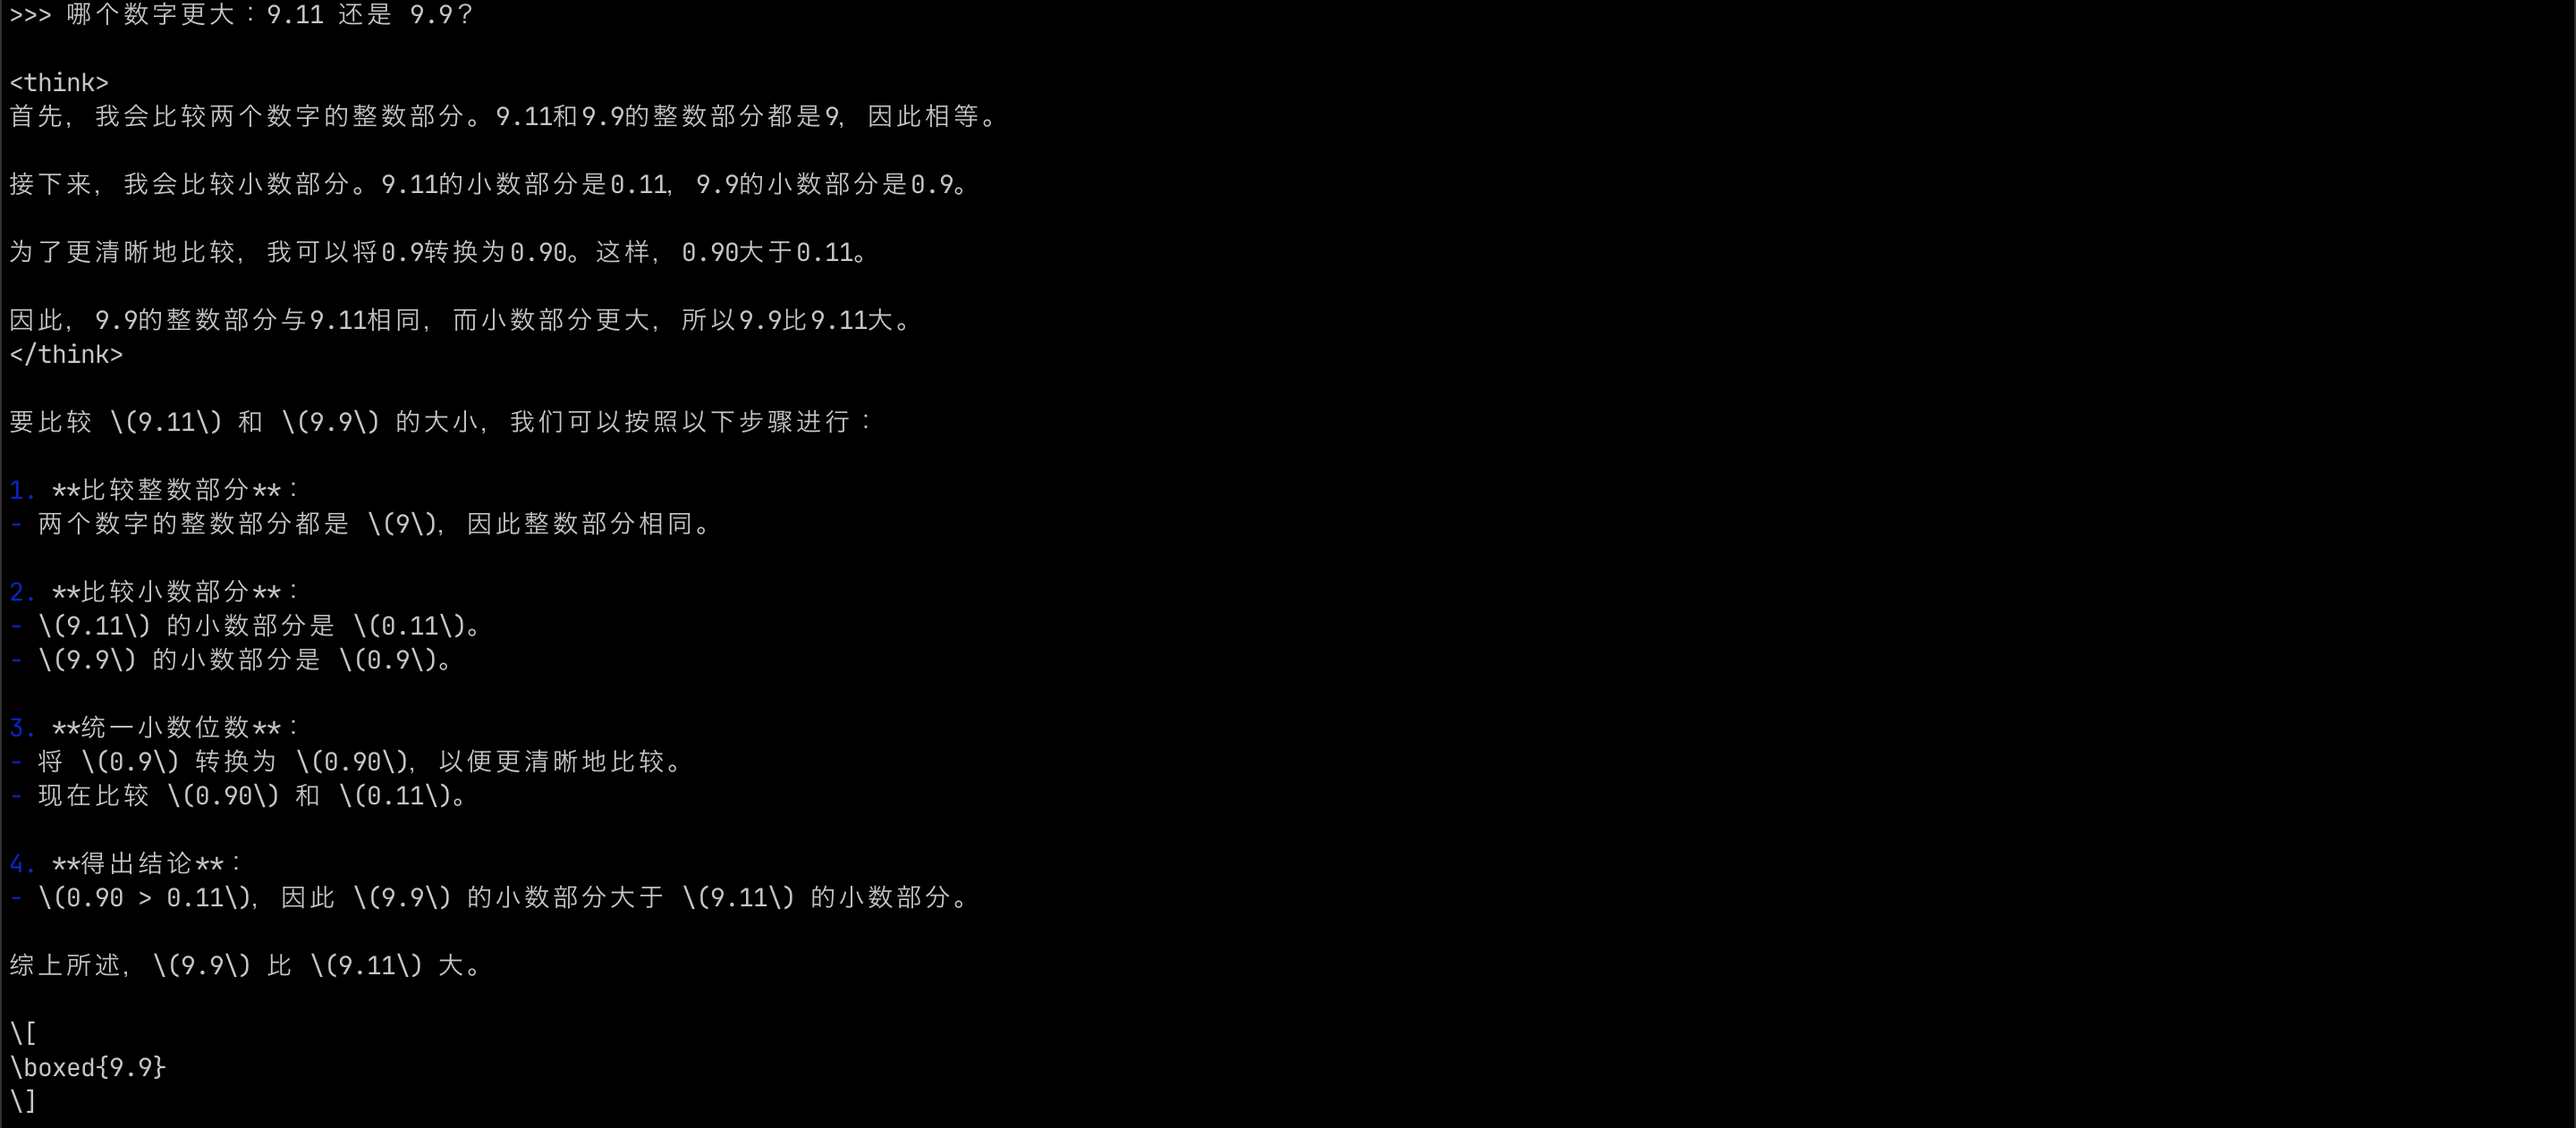
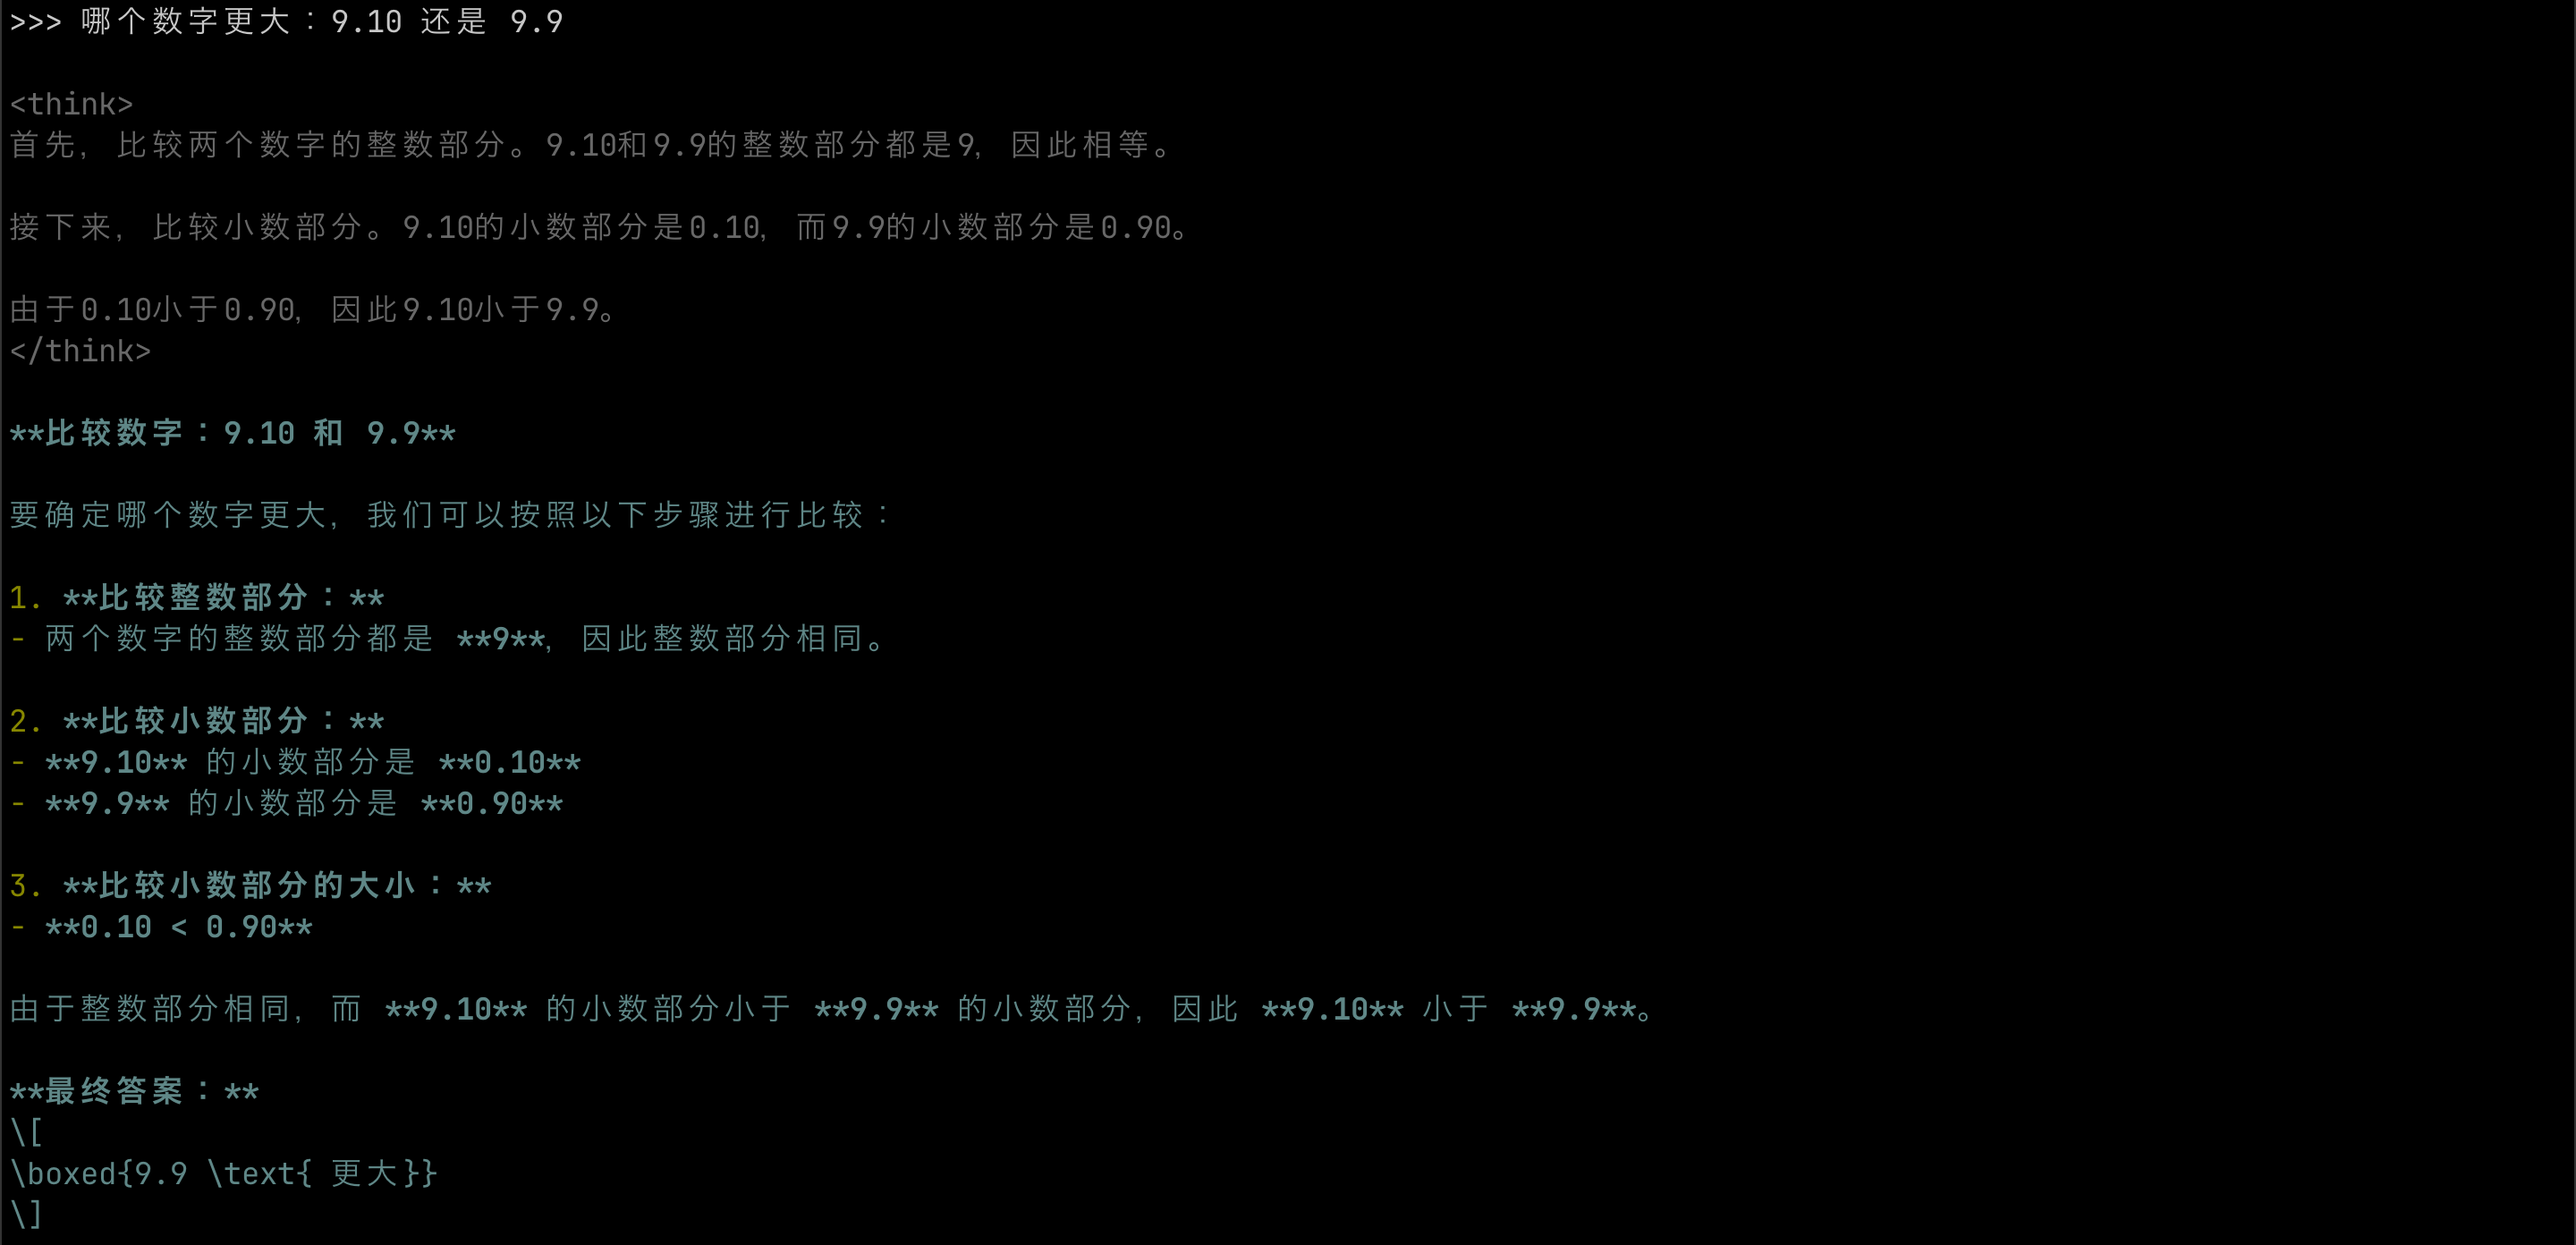
调整 think 块渲染样式

diff --git a/markdown.py b/markdown.py
@@ -6,11 +6,21 @@ from pygments.lexers import MarkdownLexer
 from pygments.formatters import Terminal256Formatter
 
 line_buffer = ''
+thinking = None
+
+
+def get_thinking():
+    return thinking
+
+
+def set_thinking(value):
+    global thinking
+    thinking = value
 
 
 def append_file(s: str):
     with open('logs/temp.txt', 'a') as file:
-        file.write(s+'\n')
+        file.write(s + '\n')
 
 
 def hit_row_limit():
@@ -19,35 +29,29 @@ def hit_row_limit():
     return wcswidth(line_buffer) >= width * 0.9
 
 
-def test():
-    a = '接下来，我应该比较它们的整数部分。两个数字的整数部分都是9，所以接下来要看小数部分。9.11的小数部分是0.11，而9.9的小数部分是0.9。为了更清晰地比较，我可以将9.9写成9.90，这样两者的小'
-    b = "let me double-check the links to ensure they\'re correct. Trello.com, Slack.com, Google.com/drive, Zoom.us, and Microsoft.com/teams. All correct. I should also keep the language c"
-    print(len(a), wcswidth(a))
-    print(a)
-    print(len(b), wcswidth(b))
-    print(b)
-
-
-# lear and concise, avoiding any jargon. The goal is to be helpful and informative without overwhelming the reader. Finally, I\'ll review the entire response to make sure it flows well and covers all the points the user requested: a title, a numbered list with links, additional tips, and a closing statement. I think that\'s it. Time to put it all together in the response.
-
-# ''            ['']
-# haha          ['haha']
-# \nhaha        ['','haha']
-# haha\n        ['haha','']
-# \n            ['','']
-# \n\n          ['','','']
-# .\n\n         ['.','','']             *
-# 1\n           ['1','']
-# \n1           ['','1']
-# 1\n2          ['1','2']
-# 1\n\n2        ['1','','2']
-# 1\n\n\n2      ['1','','','2']
-
-
 def end_current_line():
     global line_buffer
     line_buffer = ''
     print()
+
+
+class Colors:
+    RESET = "\033[0m"  # 重置颜色
+    GREY = "\033[90m"  # 灰色
+
+
+def do_output(cur_token: str):
+    global line_buffer
+    if get_thinking():
+        print(f"\r{Colors.GREY}{line_buffer}{Colors.RESET}", end="")
+    else:
+        highlighted_text = highlight(
+            line_buffer, MarkdownLexer(), Terminal256Formatter(style='solarized-light'))
+        # print(repr(highlighted_text[:-1]))
+        print('\r' + highlighted_text[:-1], end="")
+    #  如果当前 token 包含 '</think>'，则将 thinking 置为 False
+    if '</think>' in cur_token:
+        set_thinking(False)
 
 
 def render_single_line(token: str):
@@ -67,10 +71,7 @@ def render_single_line(token: str):
     if len(items) == 1:
         line_buffer += items[0]
         line_buffer = line_buffer.lstrip()
-        highlighted_text = highlight(
-            line_buffer, MarkdownLexer(), Terminal256Formatter(style='solarized-light'))
-        # print(repr(highlighted_text[:-1]))
-        print('\r' + highlighted_text[:-1], end="")
+        do_output(token)
         if hit_row_limit():
             end_current_line()
         return
@@ -81,10 +82,7 @@ def render_single_line(token: str):
         else:
             line_buffer += item
             line_buffer = line_buffer.lstrip()
-            highlighted_text = highlight(
-                line_buffer, MarkdownLexer(), Terminal256Formatter(style='solarized-light'))
-            # print(repr(highlighted_text[:-1]))
-            print('\r' + highlighted_text[:-1], end="")
+            do_output(token)
             if hit_row_limit():
                 end_current_line()
 
@@ -1061,7 +1059,8 @@ tokens = ['',
           ]
 
 if __name__ == "__main__":
-    for token in tokens:
-        render_single_line(token)
+    set_thinking(True)
+    for tk in tokens:
+        render_single_line(tk)
         time.sleep(0.05)
     # test()

diff --git a/markdown_issue.py b/markdown_issue.py
@@ -1,10 +1,17 @@
+from io import BytesIO, StringIO
+
 from pygments import highlight
 from pygments.lexers import MarkdownLexer
 from pygments.formatters import Terminal256Formatter
 from pygments.styles import get_all_styles
 
-
 markdown = """
+<think>
+
+这是一个Markdown文档示例，包含了常见的Markdown语法和格式。
+
+</think>
+
 # 随机生成的Markdown示例
 
 ## 1. 标题示例
@@ -97,6 +104,27 @@ styles = list(get_all_styles())
 # ['abap', 'algol', 'algol_nu', 'arduino', 'autumn', 'bw', 'borland', 'colorful', 'default', 'dracula', 'emacs', 'friendly_grayscale', 'friendly', 'fruity', 'github-dark', 'gruvbox-dark', 'gruvbox-light', 'igor', 'inkpot', 'lightbulb', 'lilypond', 'lovelace', 'manni', 'material',
 #     'monokai', 'murphy', 'native', 'nord-darker', 'nord', 'one-dark', 'paraiso-dark', 'paraiso-light', 'pastie', 'perldoc', 'rainbow_dash', 'rrt', 'sas', 'solarized-dark', 'solarized-light', 'staroffice', 'stata-dark', 'stata-light', 'tango', 'trac', 'vim', 'vs', 'xcode', 'zenburn']
 
-highlighted_text = highlight(
-    markdown, MarkdownLexer(), Terminal256Formatter(style='solarized-light'))
-print(highlighted_text)
+if __name__ == '__main__':
+    #highlighted_text = highlight(
+    #    markdown, MarkdownLexer(), Terminal256Formatter(style='solarized-light'))
+    #print(highlighted_text)
+
+    ########################
+
+    # lexer
+    lexer = MarkdownLexer()
+    tks = lexer.get_tokens(markdown)  # generator, 不可二次迭代, 会被消耗
+    # 转换为 list, 以便多次迭代
+    tks = list(tks)
+    for tk in tks:
+        print(tk)
+
+    print("--------------------")
+
+    # formatter
+    formatter = Terminal256Formatter(style='solarized-light')
+    outfile = getattr(formatter, 'encoding', None) and BytesIO() or StringIO()
+    formatter.format(tks, outfile)
+    highlighted_content = outfile.getvalue()
+    # print(repr(highlighted_content))
+    print(highlighted_content)

diff --git a/app.py b/app.py
@@ -3,7 +3,7 @@ import json
 from datetime import datetime
 from groq import Groq
 from dotenv import load_dotenv
-from markdown import append_file, render_single_line
+from markdown import append_file, render_single_line, set_thinking
 
 load_dotenv()
 
@@ -41,6 +41,7 @@ def main():
 
     print("Chat with deepseek-r1-distill-llama-70b (Groq). Type 'exit' to quit.")
     while True:
+        set_thinking(True)
         user_input = input(">>> ")
         if user_input.strip() == "":
             continue
@@ -69,11 +70,11 @@ def main():
             response += tok
             # 1. plain text
             # print(tok, end="")
-            # 2. markdown render
+            # 2. 逐行渲染返回的 markdown
             render_single_line(tok)
-            # 3. repr
-            append_file(repr(tok))
+            # 3. 记录 repr 结果
             # print(repr(tok) + ',')
+            append_file(repr(tok))
         print('\n\n')
         conversation.append({"role": "assistant", "content": response})
         # Log the conversation
